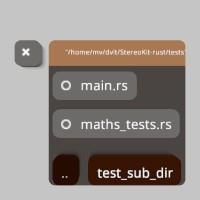
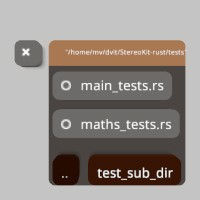
PR 1267 1268 1270 Simultaneous Hand & controller

Changed region(s): [[0.54, 0.36, 0.87, 0.51]]

diff --git a/src/system.rs b/src/system.rs
@@ -4270,9 +4270,12 @@ pub struct Renderer;
 
 unsafe extern "C" {
     pub fn render_set_clip(near_plane: f32, far_plane: f32);
-    pub fn render_set_fov(field_of_view_degrees: f32);
+    pub fn render_get_clip(out_near_plane: *mut f32, out_far_plane: *mut f32);
+    pub fn render_set_fov(vertical_field_of_view_degrees: f32);
+    pub fn render_get_fov() -> f32;
     pub fn render_set_ortho_clip(near_plane: f32, far_plane: f32);
     pub fn render_set_ortho_size(viewport_height_meters: f32);
+    pub fn render_get_ortho_size() -> f32;
     pub fn render_set_projection(proj: Projection);
     pub fn render_get_projection() -> Projection;
     pub fn render_get_cam_root() -> Matrix;
@@ -5244,34 +5247,45 @@ impl Renderer {
     /// * `far_plane` - At what distance from the camera does the GPU discard pixel? This is not true distance, but
     ///   rather Z-axis distance from zero in View Space coordinates!
     ///
-    /// see also [`render_set_clip`]
+    /// see also [`render_set_clip`] [`Renderer::get_clip`]
     /// ### Examples
     /// ```
     /// # stereokit_rust::test_init_sk!(); // !!!! Get a proper way to initialize sk !!!!
     /// use stereokit_rust::system::Renderer;
     ///
+    /// let (near, far) = Renderer::get_clip();
+    /// assert_eq!(near, 0.02);
+    /// assert_eq!(far, 50.0);
+    ///
     /// Renderer::set_clip(0.01, 10.0);
+    /// let (near, far) = Renderer::get_clip();
+    /// assert_eq!(near, 0.01);
+    /// assert_eq!(far, 10.0);
     /// ```
     pub fn set_clip(near_plane: f32, far_plane: f32) {
         unsafe { render_set_clip(near_plane, far_plane) }
     }
 
-    /// Only works for flatscreen! This updates the camera’s projection matrix with a new field of view.
+    /// Only works for 2D windowed modes! This updates the camera's projection matrix with a new vertical field of view.
     ///
     /// This value only affects perspective mode projection, which is the default projection mode.
     /// <https://stereokit.net/Pages/StereoKit/Renderer/SetFOV.html>
-    /// * `field_of_view` - Vertical field of view in degrees.`
+    /// * `vertical_field_of_view` - Vertical field of view in degrees.`
     ///
-    /// see also [`render_set_fov`]
+    /// see also [`render_set_fov`] [`Renderer::get_fov`]
     /// ### Examples
     /// ```
     /// # stereokit_rust::test_init_sk!(); // !!!! Get a proper way to initialize sk !!!!
     /// use stereokit_rust::system::Renderer;
+    /// let fov = Renderer::get_fov();
+    /// assert_eq!(fov, 90.0);
     ///
     /// Renderer::set_fov(120.0);
+    /// let fov = Renderer::get_fov();
+    /// assert_eq!(fov, 120.0);
     /// ```
-    pub fn set_fov(field_of_view: f32) {
-        unsafe { render_set_fov(field_of_view) }
+    pub fn set_fov(vertical_field_of_view: f32) {
+        unsafe { render_set_fov(vertical_field_of_view) }
     }
 
     /// Set the near and far clipping planes of the camera! These are important to z-buffer quality, especially when
@@ -5279,7 +5293,7 @@ impl Renderer {
     /// near and far planes, the better your z-buffer will look! If you see flickering on objects that are overlapping,
     /// try making the range smaller.
     ///
-    /// These values only affect orthographic mode projection, which is only available in flatscreen.
+    /// These values only affect orthographic mode projection, which is only available in 2D window modes.
     /// <https://stereokit.net/Pages/StereoKit/Renderer/SetOrthoClip.html>
     /// * `near_plane` - The GPU discards pixels that are too close to the camera, this is that distance! It must be
     ///   larger than zero, due to the projection math, which also means that numbers too close to zero will produce
@@ -5302,17 +5316,22 @@ impl Renderer {
     /// This sets the size of the orthographic projection’s viewport. You can use this feature to zoom in and out of the
     /// scene.
     ///
-    /// This value only affects orthographic mode projection, which is only available in flatscreen.
+    /// This value only affects orthographic mode projection, which is only available in 2D window modes.
     /// <https://stereokit.net/Pages/StereoKit/Renderer/SetOrthoSize.html>
     /// * `viewport_height_meters` - The vertical size of the projection’s viewport, in meters.
     ///
-    /// see also [`render_set_ortho_size`]
+    /// see also [`render_set_ortho_size`] [`Renderer::get_ortho_size`]
     /// ### Examples
     /// ```
     /// # stereokit_rust::test_init_sk!(); // !!!! Get a proper way to initialize sk !!!!
     /// use stereokit_rust::system::Renderer;
     ///
+    /// let ortho_size = Renderer::get_ortho_size();
+    /// assert_eq!(ortho_size, 1.0);
+    ///
     /// Renderer::set_ortho_size(12.0);
+    /// let ortho_size = Renderer::get_ortho_size();
+    /// assert_eq!(ortho_size, 12.0);
     /// ```
     pub fn set_ortho_size(view_port_height_meters: f32) {
         unsafe { render_set_ortho_size(view_port_height_meters) }
@@ -5327,6 +5346,47 @@ impl Renderer {
     /// see example in [`Renderer::camera_root`]
     pub fn get_camera_root() -> Matrix {
         unsafe { render_get_cam_root() }
+    }
+
+    /// This retrieves the current near and far clipping planes for the perspective matrix of the primary draw surface.
+    ///
+    /// <https://stereokit.net/Pages/StereoKit/Renderer/GetClip.html>
+    ///
+    /// Returns a tuple (`near_plane`, `far_plane`)
+    /// * `near_plane` - The GPU discards pixels that are too close to the camera, this is that distance! It will be larger
+    ///   than zero, due to the projection math, which also means that numbers too close to zero will produce z-fighting artifacts. This
+    ///   has an enforced minimum of 0.001, but will probably be closer to 0.1.
+    /// * `far_plane` - At what distance from the camera does the GPU discard pixel? This is not true distance, but rather Z-axis
+    ///   distance from zero in View Space coordinates!
+    ///
+    /// see also [`render_get_clip`]
+    /// see example in [`Renderer::set_clip`]
+    pub fn get_clip() -> (f32, f32) {
+        let mut near_plane = 0.0;
+        let mut far_plane = 0.0;
+        unsafe { render_get_clip(&mut near_plane, &mut far_plane) }
+        (near_plane, far_plane)
+    }
+
+    /// Only works for 2D windowed modes! This retrieves the vertical field of view of the camera's projection matrix when in
+    /// perspective projection mode.
+    ///
+    /// <https://stereokit.net/Pages/StereoKit/Renderer/GetFOV.html>
+    ///
+    /// see also [`render_get_fov`]
+    /// see example in [`Renderer::set_fov`]
+    pub fn get_fov() -> f32 {
+        unsafe { render_get_fov() }
+    }
+
+    /// This retrieves the size the primary render surface's view when using orthographic projection mode.
+    ///
+    /// <https://stereokit.net/Pages/StereoKit/Renderer/GetOrthoSize.html>
+    ///
+    /// see also [`render_get_ortho_size`] []
+    /// see example in [`Renderer::set_ortho_size`]
+    pub fn get_ortho_size() -> f32 {
+        unsafe { render_get_ortho_size() }
     }
 
     /// This is the current render layer mask for Mixed Reality Capture, or 2nd person observer rendering. By default,

diff --git a/examples/demos/program.rs b/examples/demos/program.rs
@@ -167,6 +167,7 @@ pub fn launch(mut sk: Sk, event_loop: EventLoop<StepperAction>, _is_testing: boo
 
     // Add virtual keyboard stepper if extension is available
     if is_meta_virtual_keyboard_extension_available() {
+        Log::info("XR_META_virtual_keyboard extension available");
         let keyboard_stepper = XrMetaVirtualKeyboardStepper::new(true);
         sk.send_event(StepperAction::add("XrMetaVirtualKeyboardStepper", keyboard_stepper));
         sk.send_event(StepperAction::event("XrMetaVirtualKeyboardStepper", KEYBOARD_SHOW, "true"));
@@ -188,7 +189,25 @@ pub fn launch(mut sk: Sk, event_loop: EventLoop<StepperAction>, _is_testing: boo
             Log::diag("Controller models will be disabled via stepper");
         }
     } else {
-        Log::diag("XR_FB_render_model extension not available - controller stepper skipped");
+        Log::diag("XR_FB_render_model extension not available");
+    }
+
+    // Activate simultaneous hand & controller
+    if simultaneous_hands_controllers_available {
+        Log::info("Simultaneous hands and controllers tracking supported");
+
+        if simultaneous_hands_controllers {
+            if resume_simultaneous_hands_and_controllers(true) {
+                Log::info("Simultaneous hands and controllers tracking enabled at start");
+            } else {
+                Log::err("❌ Failed to enable simultaneous hands and controllers tracking");
+                simultaneous_hands_controllers = false;
+            }
+        } else {
+            Log::info("Simultaneous hands and controllers tracking disabled at start");
+        }
+    } else {
+        Log::diag("Simultaneous hands and controllers tracking not supported");
     }
 
     let ui_text_style = Ui::get_text_style();
@@ -359,7 +378,7 @@ pub fn launch(mut sk: Sk, event_loop: EventLoop<StepperAction>, _is_testing: boo
         }
 
         fps = ((1.0 / Time::get_step()) + fps) / 2.0;
-        Ui::label(format!("FPS: {fps:.0}"), None, true);
+        Ui::label(format!("FPS: {fps:3.0}"), Some(Vec2::new(0.1, 0.0)), true);
 
         Ui::same_line();
 

diff --git a/src/tools/file_browser.rs b/src/tools/file_browser.rs
@@ -69,7 +69,7 @@ pub const FILE_BROWSER_SAVE: &str = "File_Browser_save";
 /// use stereokit_rust::{maths::{Vec2, Vec3}, sk::SkInfo, ui::Ui, tools::os_api::get_external_path,
 ///                      tools::file_browser::{FileBrowser, FILE_BROWSER_SAVE}, util::PickerMode, };
 ///
-/// let id = "main".to_string();
+/// let id = "main_tests".to_string();
 /// const BROWSER_SUFFIX: &str = "_file_to_save";
 /// let mut file_browser = FileBrowser::default();
 /// let sk_info  = Some(sk.get_sk_info_clone());
@@ -86,7 +86,7 @@ pub const FILE_BROWSER_SAVE: &str = "File_Browser_save";
 /// file_browser.caller = id.clone();
 /// file_browser.window_pose = Ui::popup_pose([-0.02, 0.09, 1.37]);
 /// file_browser.window_size = Vec2{x: 0.25, y: 0.0};
-/// file_browser.file_name_to_save = "main.rs".into();
+/// file_browser.file_name_to_save = "main_tests.rs".into();
 /// SkInfo::send_event(&sk_info, StepperAction::add(id.clone() + BROWSER_SUFFIX, file_browser));
 ///
 /// filename_scr = "screenshots/file_save.jpeg";

diff --git a/examples/main.rs b/examples/main.rs
@@ -43,6 +43,7 @@ pub fn android_main(app: AndroidApp) {
     BackendOpenXR::request_ext("XR_FB_render_model");
     BackendOpenXR::request_ext("XR_META_virtual_keyboard");
     BackendOpenXR::request_ext("XR_META_simultaneous_hands_and_controllers");
+    //BackendOpenXR::exclude_ext("XR_META_detached_controllers"); // uncomment if you don't want to see detached controllers
     BackendOpenXR::request_ext("XR_KHR_android_surface_swapchain");
 
     let (sk, event_loop) = settings.init_with_event_loop(app).unwrap();
